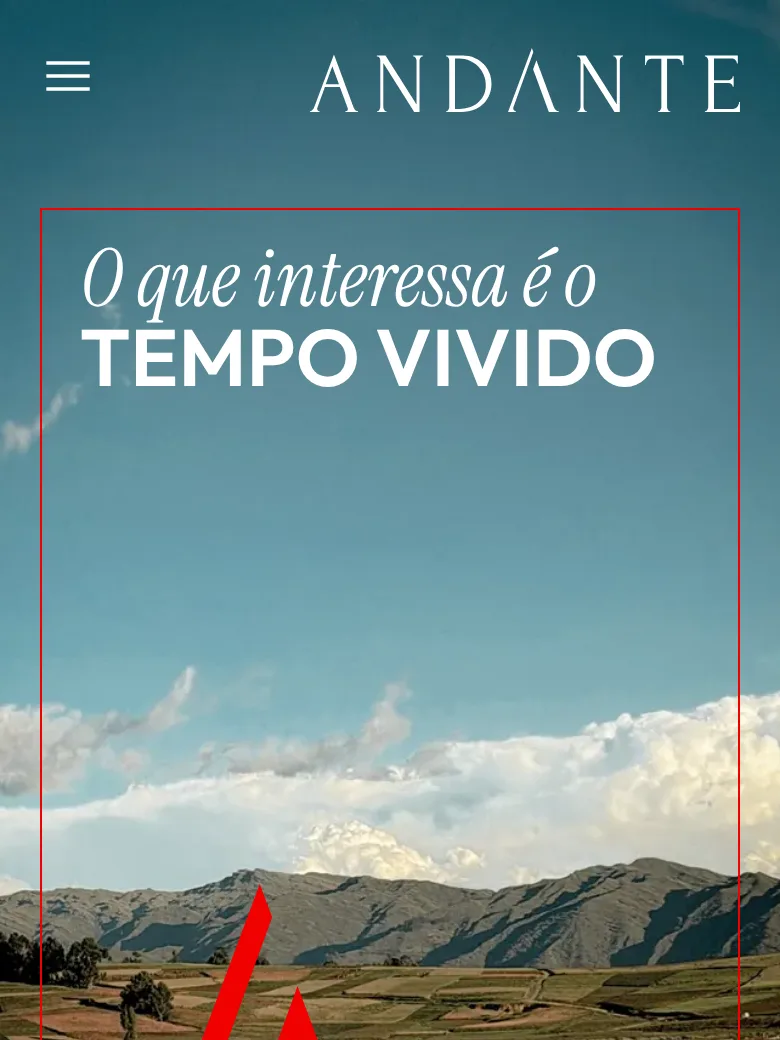
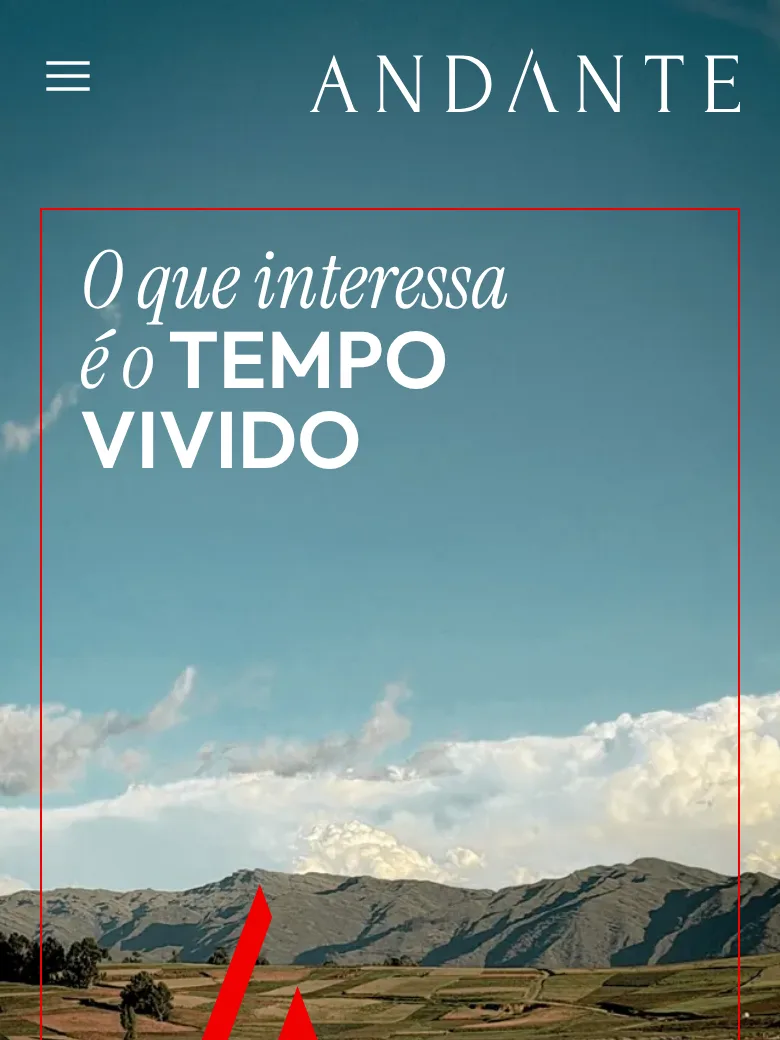
Andante (Vitamina): título do hero com a quebra do Figma do Lucas; respiro na faixa preta do desktop; regras de título revisadas
Claude-Session: https://claude.ai/code/session_01FyrvPRxbNTggiNZso4Jxdc

Changed region(s): [[0.0923, 0.2462, 0.8615, 0.4615], [0.1231, 0.2154, 0.1538, 0.2462]]

diff --git a/andante/index.html b/andante/index.html
@@ -271,10 +271,16 @@ a:hover{text-decoration-thickness:2px}
             <figure><figcaption>Depois</figcaption><img src="/andante/review/a-hoteis-b.webp" alt="Hotéis e bikes em carrossel, depois" loading="lazy" decoding="async"></figure>
           </div>
         </article><article class="change grid">
-          <div class="change__text"><span class="num"><span class="ico ico--tipo" aria-hidden="true"></span>6 · Conversa com o Lucas</span><h3>Uma frase só no título</h3><p>“O que interessa é o / TEMPO VIVIDO” volta a ser uma frase só, como no desenho do Lucas, e o título ficou cerca de 20% menor, mais delicado.</p><p class="tec">A quebra agora é definida em cada tamanho de tela, e “TEMPO VIVIDO” nunca se separa.</p></div>
+          <div class="change__text"><span class="num"><span class="ico ico--tipo" aria-hidden="true"></span>6 · Conversa com o Lucas</span><h3>Uma frase só no título</h3><p>O título volta à quebra do desenho do Lucas, “O que interessa / é o TEMPO / VIVIDO”, em que a serifada e a caixa alta dividem a mesma linha. E ficou cerca de 20% menor, mais delicado.</p><p class="tec">A quebra é escrita à mão para cada tamanho de tela, então o título não se desmonta em blocos soltos.</p></div>
           <div class="change__pair">
             <figure><figcaption>Antes</figcaption><img src="/andante/review/a-hero-a.webp" alt="Uma frase só no título, antes" loading="lazy" decoding="async"></figure>
             <figure><figcaption>Depois</figcaption><img src="/andante/review/a-hero-b.webp" alt="Uma frase só no título, depois" loading="lazy" decoding="async"></figure>
+          </div>
+        </article><article class="change grid">
+          <div class="change__text"><span class="num"><span class="ico ico--ritmo" aria-hidden="true"></span>7 · Conversa com o Lucas</span><h3>Respiro na abertura</h3><p>No computador, a faixa preta logo depois da foto ganhou espaço em cima e embaixo, e a frase voltou a um tamanho mais delicado. É a entrada do site, e agora ela respira antes da próxima faixa.</p><p class="tec">No celular, a faixa já seguia o desenho do Lucas e ficou como estava.</p></div>
+          <div class="change__pair">
+            <figure><figcaption>Antes</figcaption><img src="/andante/review/a-faixa-a.webp" alt="Respiro na abertura, antes" loading="lazy" decoding="async"></figure>
+            <figure><figcaption>Depois</figcaption><img src="/andante/review/a-faixa-b.webp" alt="Respiro na abertura, depois" loading="lazy" decoding="async"></figure>
           </div>
         </article>
     </div>

diff --git a/andante/vitamina/index.html b/andante/vitamina/index.html
@@ -51,7 +51,7 @@
   <picture><source type="image/webp" srcset="/andante/vitamina/assets/img/hero-480.webp 480w, /andante/vitamina/assets/img/hero-800.webp 800w, /andante/vitamina/assets/img/hero-1200.webp 1200w, /andante/vitamina/assets/img/hero-1600.webp 1600w" sizes="100vw"><img class="hero__img" src="/andante/vitamina/assets/img/hero-800.jpg" srcset="/andante/vitamina/assets/img/hero-480.jpg 480w, /andante/vitamina/assets/img/hero-800.jpg 800w, /andante/vitamina/assets/img/hero-1200.jpg 1200w, /andante/vitamina/assets/img/hero-1600.jpg 1600w" sizes="100vw" width="1600" height="2133" alt="Lago entre plantações e montanhas, no Vale Sagrado" loading="eager" decoding="async" fetchpriority="high"></picture>
   <div class="wrap hero__wrap">
     <div class="hero__frame" aria-hidden="true"></div>
-    <h1 class="hero__title" id="hero-titulo"><span class="serif it t-line">O que interessa é o</span> <span class="caps t-line">tempo&nbsp;vivido</span></h1>
+    <h1 class="hero__title" id="hero-titulo"><span class="t-line"><span class="serif it">O que interessa</span></span> <span class="t-line"><span class="serif it">é o </span><span class="caps">tempo</span></span> <span class="t-line"><span class="caps">vivido</span></span></h1>
   </div>
   <svg class="symbol" aria-hidden="true" focusable="false" fill="currentColor" xmlns="http://www.w3.org/2000/svg" viewBox="0 0 450.59 569.86"><path d="M52.05,555.02c-3.97-4.25-5.950-10.02-5.950-17.39,0-3.94.85-8.17,2.55-12.71L225.41,35.3,212.31,0,0,569.86h69v-8.48h-4.25c-4.51,0-8.76-2.11-12.7-6.36ZM446.36,561.38c-11.31,0-20.51-5.36-27.57-16.1-7.06-10.74-12.57-21.77-16.54-33.08L252.49,108.36l-29.37,81.34,140.17,380.16h87.29v-8.48h-4.23Z"/></svg>
 </section>

diff --git a/andante/vitamina/assets/css/site.css b/andante/vitamina/assets/css/site.css
@@ -357,6 +357,9 @@ body.is-locked{overflow:hidden}
 @media (min-width:1440px){ :root{ --edge:64px } }
 
 /* ajustes de desenho */
+/* faixa preta da abertura, só no desktop (Lucas, 25/11): frase mais delicada e respiro maior antes da próxima faixa */
+@media (min-width:820px){.intro{padding-bottom:var(--s24)}.intro__text{font-size:20px;line-height:28px}}
+@media (min-width:1100px){.intro{padding-top:var(--s24)}}
 /* botão cheio em fundo escuro: contorno vermelho da marca (4,7:1 contra o preto) para o botão não se perder no fundo (WCAG 1.4.11 pede 3:1) */
 .on-dark .btn--solid,.band--black .btn--solid,.band--forest .btn--solid,.band--earth .btn--solid,.menu .btn--solid{border-color:var(--red)}
 /* Páginas de viagem no celular (pedido do cliente, 26/11): hotéis e bikes em carrossel; "para quem é" como lista */

diff --git a/source/andante/src/templates/inicio.html b/source/andante/src/templates/inicio.html
@@ -2,7 +2,7 @@
   {{img:hero|hero__img|Lago entre plantações e montanhas, no Vale Sagrado|eager}}
   <div class="wrap hero__wrap">
     <div class="hero__frame" aria-hidden="true"></div>
-    <h1 class="hero__title" id="hero-titulo"><span class="serif it t-line">O que interessa é o</span> <span class="caps t-line">tempo&nbsp;vivido</span></h1>
+    <h1 class="hero__title" id="hero-titulo"><span class="t-line"><span class="serif it">O que interessa</span></span> <span class="t-line"><span class="serif it">é o </span><span class="caps">tempo</span></span> <span class="t-line"><span class="caps">vivido</span></span></h1>
   </div>
   {{symbol}}
 </section>

diff --git a/source/andante/comparar.py b/source/andante/comparar.py
@@ -98,8 +98,11 @@ AJUSTES = [
    "Aqui o carrossel faz sentido: são fotos, na ordem da viagem, e a página fica bem mais curta no celular. O próximo card aparece na borda e o contador mostra quantos faltam. As fotos provisórias deram lugar às fotos que você mandou.",
    "Funciona também pelo teclado. No computador, os cards voltam a ficar lado a lado."),
   ("tipo", "hero", "Uma frase só no título", "Conversa com o Lucas",
-   "\u201cO que interessa é o / TEMPO VIVIDO\u201d volta a ser uma frase só, como no desenho do Lucas, e o título ficou cerca de 20% menor, mais delicado.",
-   "A quebra agora é definida em cada tamanho de tela, e \u201cTEMPO VIVIDO\u201d nunca se separa."),
+   "O título volta à quebra do desenho do Lucas, \u201cO que interessa / é o TEMPO / VIVIDO\u201d, em que a serifada e a caixa alta dividem a mesma linha. E ficou cerca de 20% menor, mais delicado.",
+   "A quebra é escrita à mão para cada tamanho de tela, então o título não se desmonta em blocos soltos."),
+  ("ritmo", "faixa", "Respiro na abertura", "Conversa com o Lucas",
+   "No computador, a faixa preta logo depois da foto ganhou espaço em cima e embaixo, e a frase voltou a um tamanho mais delicado. É a entrada do site, e agora ela respira antes da próxima faixa.",
+   "No celular, a faixa já seguia o desenho do Lucas e ficou como estava."),
 ]
 
 CONTRASTE = [

diff --git a/source/andante/sistema.py b/source/andante/sistema.py
@@ -27,6 +27,9 @@ TOKENS = """
 """
 
 MANUAL = """
+/* faixa preta da abertura, só no desktop (Lucas, 25/11): frase mais delicada e respiro maior antes da próxima faixa */
+@media (min-width:820px){.intro{padding-bottom:var(--s24)}.intro__text{font-size:20px;line-height:28px}}
+@media (min-width:1100px){.intro{padding-top:var(--s24)}}
 /* botão cheio em fundo escuro: contorno vermelho da marca (4,7:1 contra o preto) para o botão não se perder no fundo (WCAG 1.4.11 pede 3:1) */
 .on-dark .btn--solid,.band--black .btn--solid,.band--forest .btn--solid,.band--earth .btn--solid,.menu .btn--solid{border-color:var(--red)}
 /* Páginas de viagem no celular (pedido do cliente, 26/11): hotéis e bikes em carrossel; "para quem é" como lista */

diff --git a/source/andante/REGRAS-TITULOS.md b/source/andante/REGRAS-TITULOS.md
@@ -2,13 +2,13 @@
 
 Vale para todo título onde a marca fala: hero, quote, frases em serifada itálica + caixa alta, títulos com moldura vermelha.
 
-1. **Uma frase só.** Serifada itálica e caixa alta convivem na mesma frase; a troca de estilo acontece dentro da linha ou na virada dela, nunca em blocos soltos.
-   Certo: `O que interessa é o / TEMPO VIVIDO` · `É sobre fazer parte / do que lá ACONTECE.`
-   Errado: `O que / interessa / é o / TEMPO / VIVIDO`
-2. **A quebra segue o sentido.** Nunca uma palavra sozinha numa linha. Ideal 2 linhas, no máximo 3.
-3. **A caixa alta não se parte.** `TEMPO&nbsp;VIVIDO`, `ACONTECE.` ficam inteiros (espaço que não quebra).
+1. **Misturar na mesma linha.** Pelo menos uma linha junta serifada itálica e caixa alta. A troca de estilo acontece dentro da linha, não entre blocos.
+   Certo: `O que interessa / é o TEMPO / VIVIDO` · `É sobre fazer parte / do que lá ACONTECE.`
+   Errado: `O que interessa é o / TEMPO VIVIDO` (cada estilo no seu bloco) · `O que / interessa / é o / TEMPO / VIVIDO`
+2. **As quebras seguem o Figma do Lucas.** Quando ele já desenhou, a quebra dele vale em todas as telas. A caixa alta pode quebrar (VIVIDO desce sozinho).
+3. **Nunca uma palavra serifada sozinha numa linha.** No máximo 3 linhas.
 4. **Delicado, não grande.** O tamanho é contido; a força vem do espaço em volta. Referência de sensação: capa Voyageurs (Lucas, 25/11).
    Hero: 40 (mobile) · 48 (820+) · 64 (1100+). Abaixo de 360px, 32.
-5. **Quebras escritas à mão.** Cada linha é um `<span class="t-line">` (bloco, sem quebra interna). Não deixar o navegador equilibrar sozinho (`text-wrap: balance` não vale nesses títulos).
+5. **Quebras escritas à mão.** Cada linha é um `<span class="t-line">` (bloco, sem quebra interna). Não deixar o navegador equilibrar sozinho.
 
-Origem: feedback do Lucas Rampazzo em 25/11/2026.
+Origem: feedback do Lucas Rampazzo em 25/11/2026, revisado em 26/11 (a regra "a caixa alta não se parte" estava errada e saiu).
